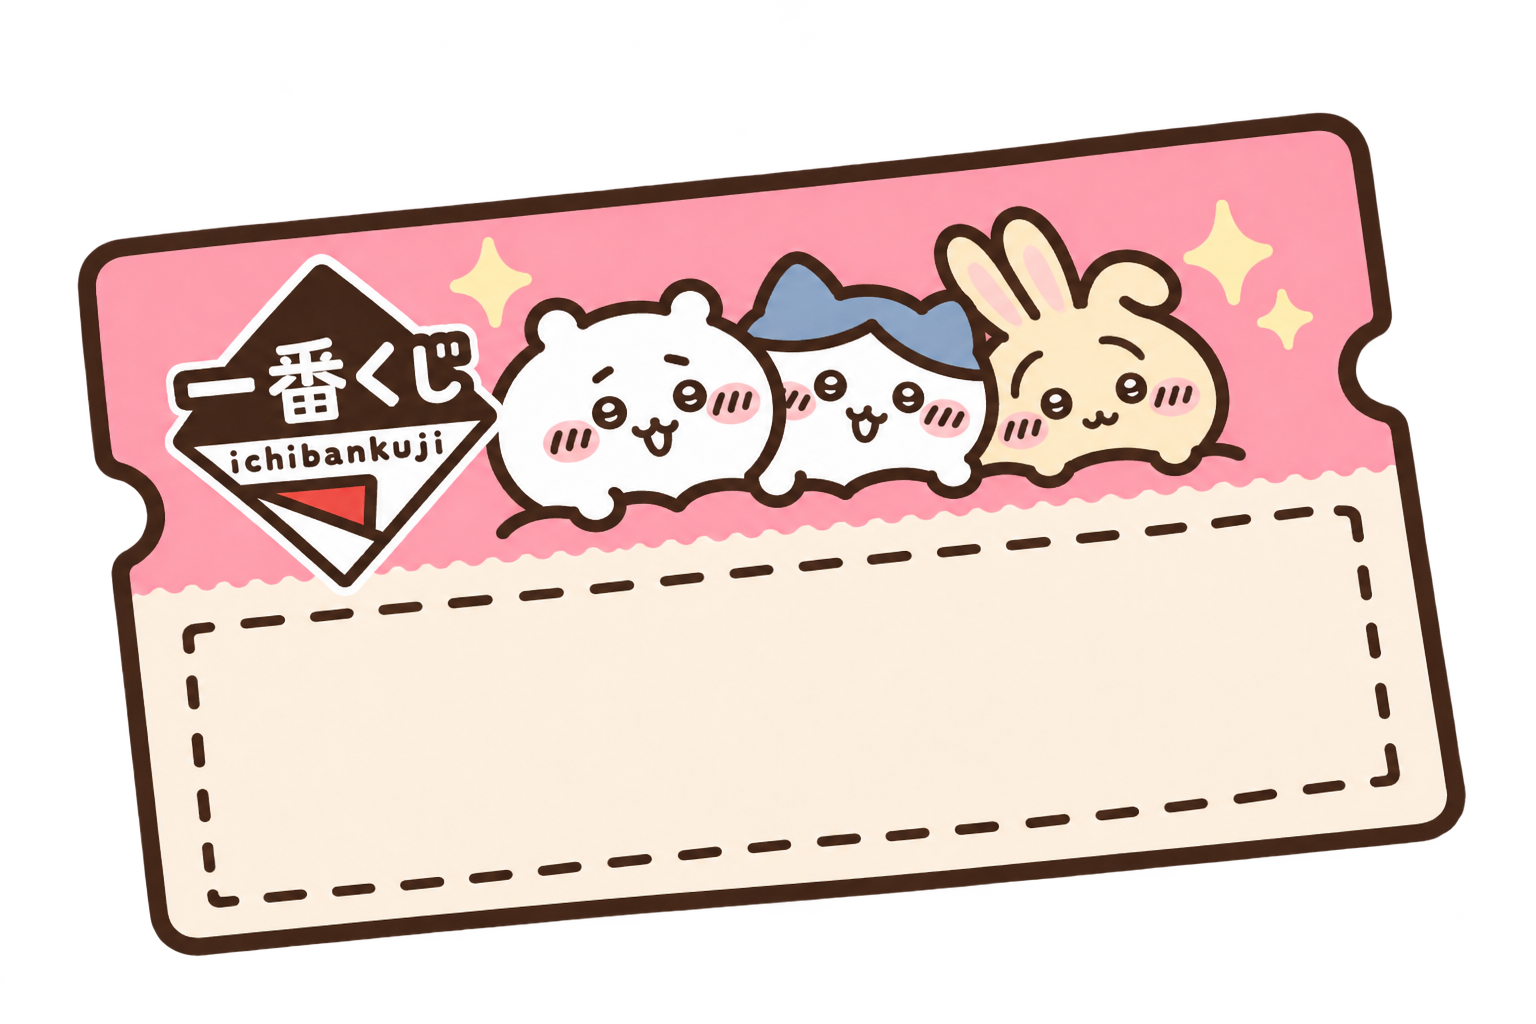
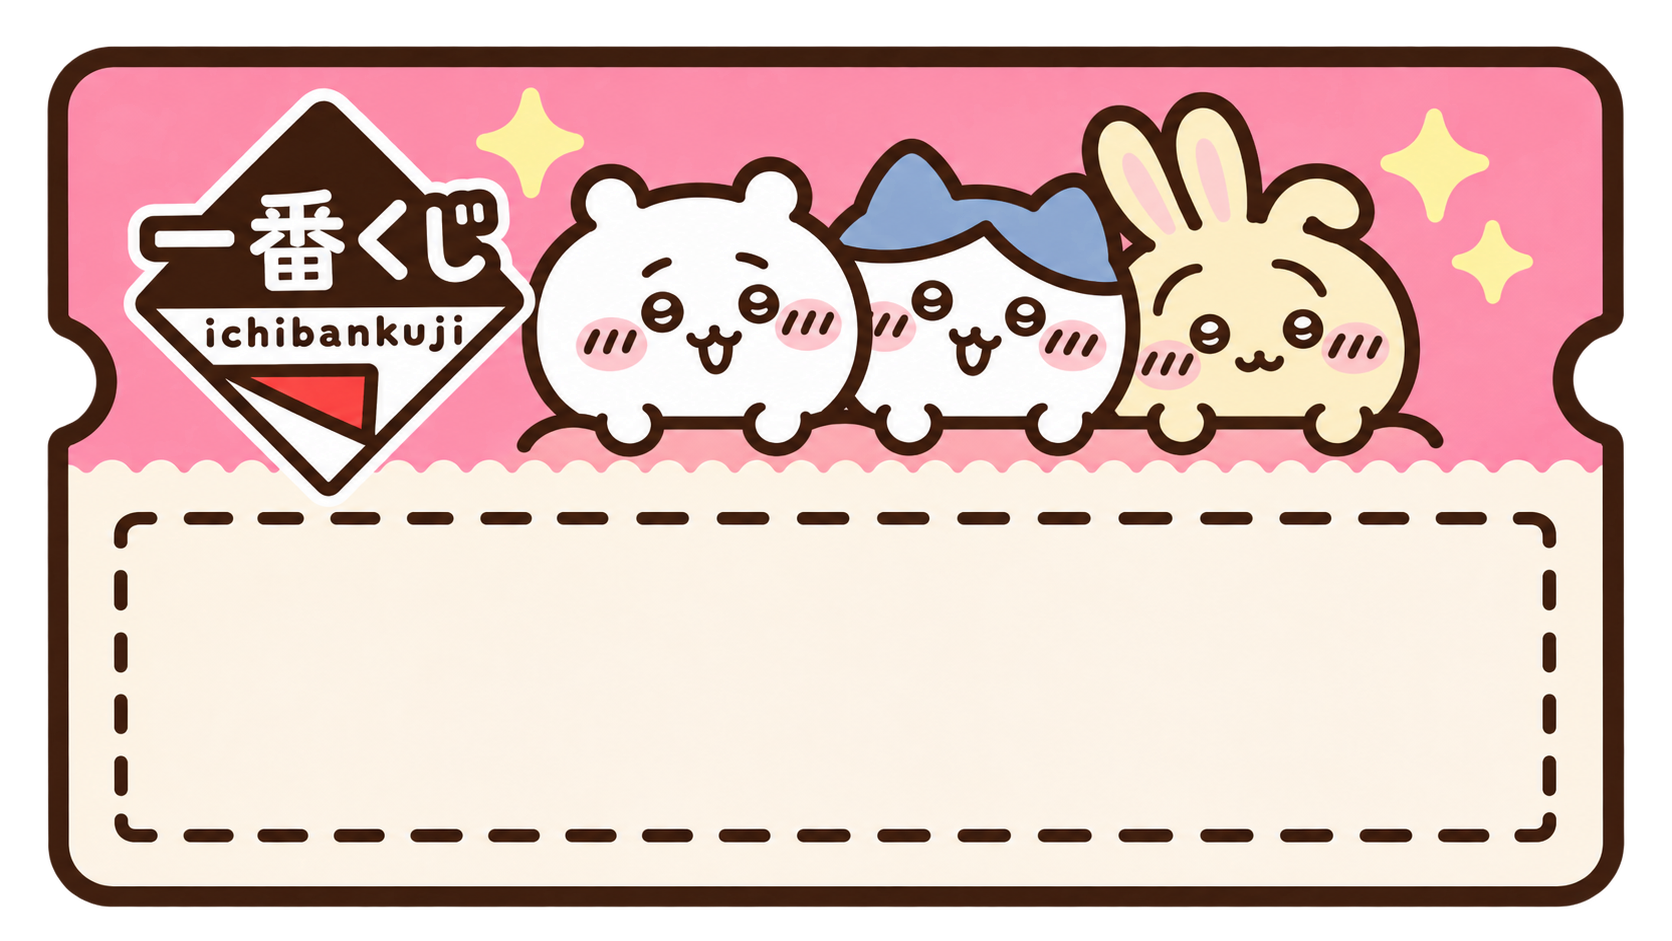
44444

diff --git a/src/ui/gachaUi.ts b/src/ui/gachaUi.ts
@@ -354,7 +354,7 @@ export class GachaUi {
         <div class="rps-scene lottery-scene">
           <div class="lottery-heading"><h2>🎟 제일복권</h2><p class="lottery-status">남은 복권 확인 중...</p><div class="lottery-balance"><img src="/assets/coin.png" alt="코인"/> 보유 코인 <strong class="lottery-balance-value">0</strong></div></div>
           <div class="lottery-prizes"></div><button class="lottery-reset" data-action="lottery-reset" hidden>↻ 제일복권 초기화 (test 전용)</button>
-          <div class="lottery-ticket" hidden><div class="lottery-ticket-under"></div><div class="lottery-ticket-cover"><div class="lottery-ticket-top"></div><div class="lottery-ticket-peel"><span>점선 아래를 오른쪽으로 뜯어주세요 →</span></div></div></div>
+          <div class="lottery-ticket" hidden><div class="lottery-ticket-under"></div><div class="lottery-ticket-cover"><div class="lottery-ticket-top"></div><div class="lottery-ticket-peel"><span>점선 안쪽을 오른쪽으로 뜯어주세요 →</span></div></div></div>
           <div class="lottery-winners" aria-live="polite"></div>
           <div class="lottery-results"></div>
           <div class="lottery-purchase"><label>구매 수량 <input class="lottery-count" type="number" min="1" max="100" value="1"/></label><button data-action="lottery-all">남은 장수 선택</button><p class="lottery-price">100코인</p><button data-action="lottery-buy">복권 구매 · 뜯기</button></div>
@@ -1369,7 +1369,7 @@ export class GachaUi {
     const prizes=this.root.querySelector<HTMLElement>('.lottery-prizes')
     const ids=['kurimanju_bean','rakko_limited','beetle_berserk','ginger_chiikawa','ginger_hachiware','ginger_usagi'] as const
     if(prizes)prizes.innerHTML=state.remaining.map((n,i)=>`<div class="lottery-prize${n===0?' lottery-sold-out':''}"><b>${'ABCDEFG'[i]}상</b>${i<6?`<img src="${CHARACTER_IMAGE_URLS[ids[i] as keyof typeof CHARACTER_IMAGE_URLS]}" alt=""/>`:'<span>꽝</span>'}<small>${n}장 · ${state.total?(n/state.total*100).toFixed(1):'0.0'}%</small>${n===0?'<img class="lottery-sold-stamp" src="/assets/lottery_sold_out.png" alt="품절"/>':''}</div>`).join('')
-    const winners=this.root.querySelector<HTMLElement>('.lottery-winners');if(winners)winners.textContent=state.winners?.length?'최근 당첨: '+state.winners.map(w=>`${w.nickname} (${w.grade}상)`).join(' · '):'아직 A~F상 당첨자가 없습니다.'
+    const winners=this.root.querySelector<HTMLElement>('.lottery-winners');if(winners){winners.replaceChildren();const label=document.createElement('strong');label.textContent='최근 당첨';winners.append(label);if(state.winners?.length){for(const w of state.winners){const item=document.createElement('span');item.className='lottery-winner-item';item.textContent=`${w.nickname} · ${w.grade}상`;winners.append(item)}}else{const empty=document.createElement('span');empty.textContent='아직 A~F상 당첨자가 없습니다.';winners.append(empty)}}
     const input=this.root.querySelector<HTMLInputElement>('.lottery-count');if(input){input.max=String(state.total);input.disabled=state.total===0}
     const buy=this.root.querySelector<HTMLButtonElement>('[data-action="lottery-buy"]');if(buy)buy.disabled=state.total===0||this.lotteryBusy
     this.updateLotteryPrice()
@@ -1423,6 +1423,8 @@ export class GachaUi {
     const ids=['kurimanju_bean','rakko_limited','beetle_berserk','ginger_chiikawa','ginger_hachiware','ginger_usagi'] as const
     const idx='ABCDEFG'.indexOf(r.grade)
     under.replaceChildren()
+    // Hide the prize layer until the user actually finishes tearing.
+    under.style.visibility='hidden'
     const title=document.createElement('strong');title.textContent=`${r.grade}상 당첨!`
     under.append(title)
     if(r.id&&idx>=0&&idx<6){const img=document.createElement('img');img.src=CHARACTER_IMAGE_URLS[ids[idx] as keyof typeof CHARACTER_IMAGE_URLS];img.alt='당첨 캐릭터';under.append(img)}
@@ -1437,8 +1439,10 @@ export class GachaUi {
   private revealLottery():void{
     if(this.lotteryRevealed>=this.lotteryResults.length)return
     const r=this.lotteryResults[this.lotteryRevealed]
-    const top=this.root.querySelector<HTMLElement>('.lottery-ticket-top');if(top){top.style.transition='opacity .38s ease';top.style.opacity='0'}
+    // Keep the upper artwork stationary while the perforated lower piece slides away.
     const peel=this.root.querySelector<HTMLElement>('.lottery-ticket-peel')
+    const prizeLayer=this.root.querySelector<HTMLElement>('.lottery-ticket-under')
+    if(prizeLayer)prizeLayer.style.visibility='visible'
     if(peel){peel.style.transition='transform .38s ease';peel.style.transform='translateX(115%)';peel.onpointerdown=null;peel.onpointerup=null;peel.onpointermove=null}
     this.lotteryRevealed++
     this.renderLotteryResults()

diff --git a/src/styles/gacha.css b/src/styles/gacha.css
@@ -4083,3 +4083,18 @@ background:linear-gradient(115deg,transparent 36%,rgba(255,255,255,.65) 49%,tran
 #ui .lottery-screen .lottery-prize{position:relative;overflow:hidden}
 #ui .lottery-screen .lottery-sold-stamp{position:absolute!important;left:6%!important;top:25%!important;width:88%!important;height:60%!important;object-fit:contain!important;z-index:3;pointer-events:none;filter:drop-shadow(0 1px 2px #55332288)}
 #ui .lottery-screen .lottery-sold-out>img:not(.lottery-sold-stamp){opacity:.4}
+
+/* test.014: use supplied horizontal ticket artwork; only perforated lower area tears */
+#ui .lottery-ticket{width:min(100%,350px);height:auto;aspect-ratio:1600/900;overflow:hidden;background:transparent;border:0}
+#ui .lottery-ticket-cover{position:absolute;inset:0;overflow:hidden;touch-action:pan-y}
+#ui .lottery-ticket-top,#ui .lottery-ticket-peel{background-image:url('/assets/lottery_ticket_custom.png');background-position:center;background-repeat:no-repeat;background-size:100% 100%;position:absolute;inset:0}
+#ui .lottery-ticket-top{clip-path:inset(0 0 48% 0);pointer-events:none;z-index:1}
+#ui .lottery-ticket-peel{clip-path:inset(52% 0 0 0);touch-action:none;cursor:grab;z-index:2;filter:drop-shadow(2px 2px 2px #5c332a55)}
+#ui .lottery-ticket-peel span{position:absolute;bottom:13%;left:12%;right:12%;font-size:11px;background:#fff7e8d9;color:#683b2c}
+
+/* test.015: readable winner chips, no overlap, and concealed prizes */
+#ui .lottery-screen .lottery-winners{display:flex!important;flex-wrap:nowrap!important;align-items:center!important;gap:6px!important;max-height:none!important;min-height:36px!important;overflow-x:auto!important;overflow-y:hidden!important;white-space:nowrap!important;background:rgba(65,36,27,.91)!important;color:#fffaf0!important;border:1px solid rgba(255,238,203,.7)!important;box-shadow:0 2px 8px #3a1e1980!important;padding:7px 9px!important;position:relative!important;z-index:1!important;}
+#ui .lottery-screen .lottery-winners>strong{flex:none;font-size:11px;color:#ffe2a4;text-shadow:0 1px 2px #000}
+#ui .lottery-screen .lottery-winner-item{flex:none;display:inline-flex;align-items:center;background:rgba(255,250,237,.17);border:1px solid #ffffff55;border-radius:8px;padding:4px 7px;font-size:11px;font-weight:800;color:white;text-shadow:0 1px 2px #000}
+#ui .lottery-screen .lottery-prizes,#ui .lottery-screen .lottery-ticket,#ui .lottery-screen .lottery-results,#ui .lottery-screen .lottery-purchase{position:relative;z-index:0}
+#ui .lottery-ticket-under{visibility:hidden}

diff --git a/index.html b/index.html
@@ -27,7 +27,7 @@
   <body>
     <canvas id="game"></canvas>
     <div id="ui"></div>
-    <div id="geongi-version" aria-label="게임 버전 test.013">test.013</div>
+    <div id="geongi-version" aria-label="게임 버전 test.015">test.015</div>
     <script>
       (function () {
         function fitDesktop() {
